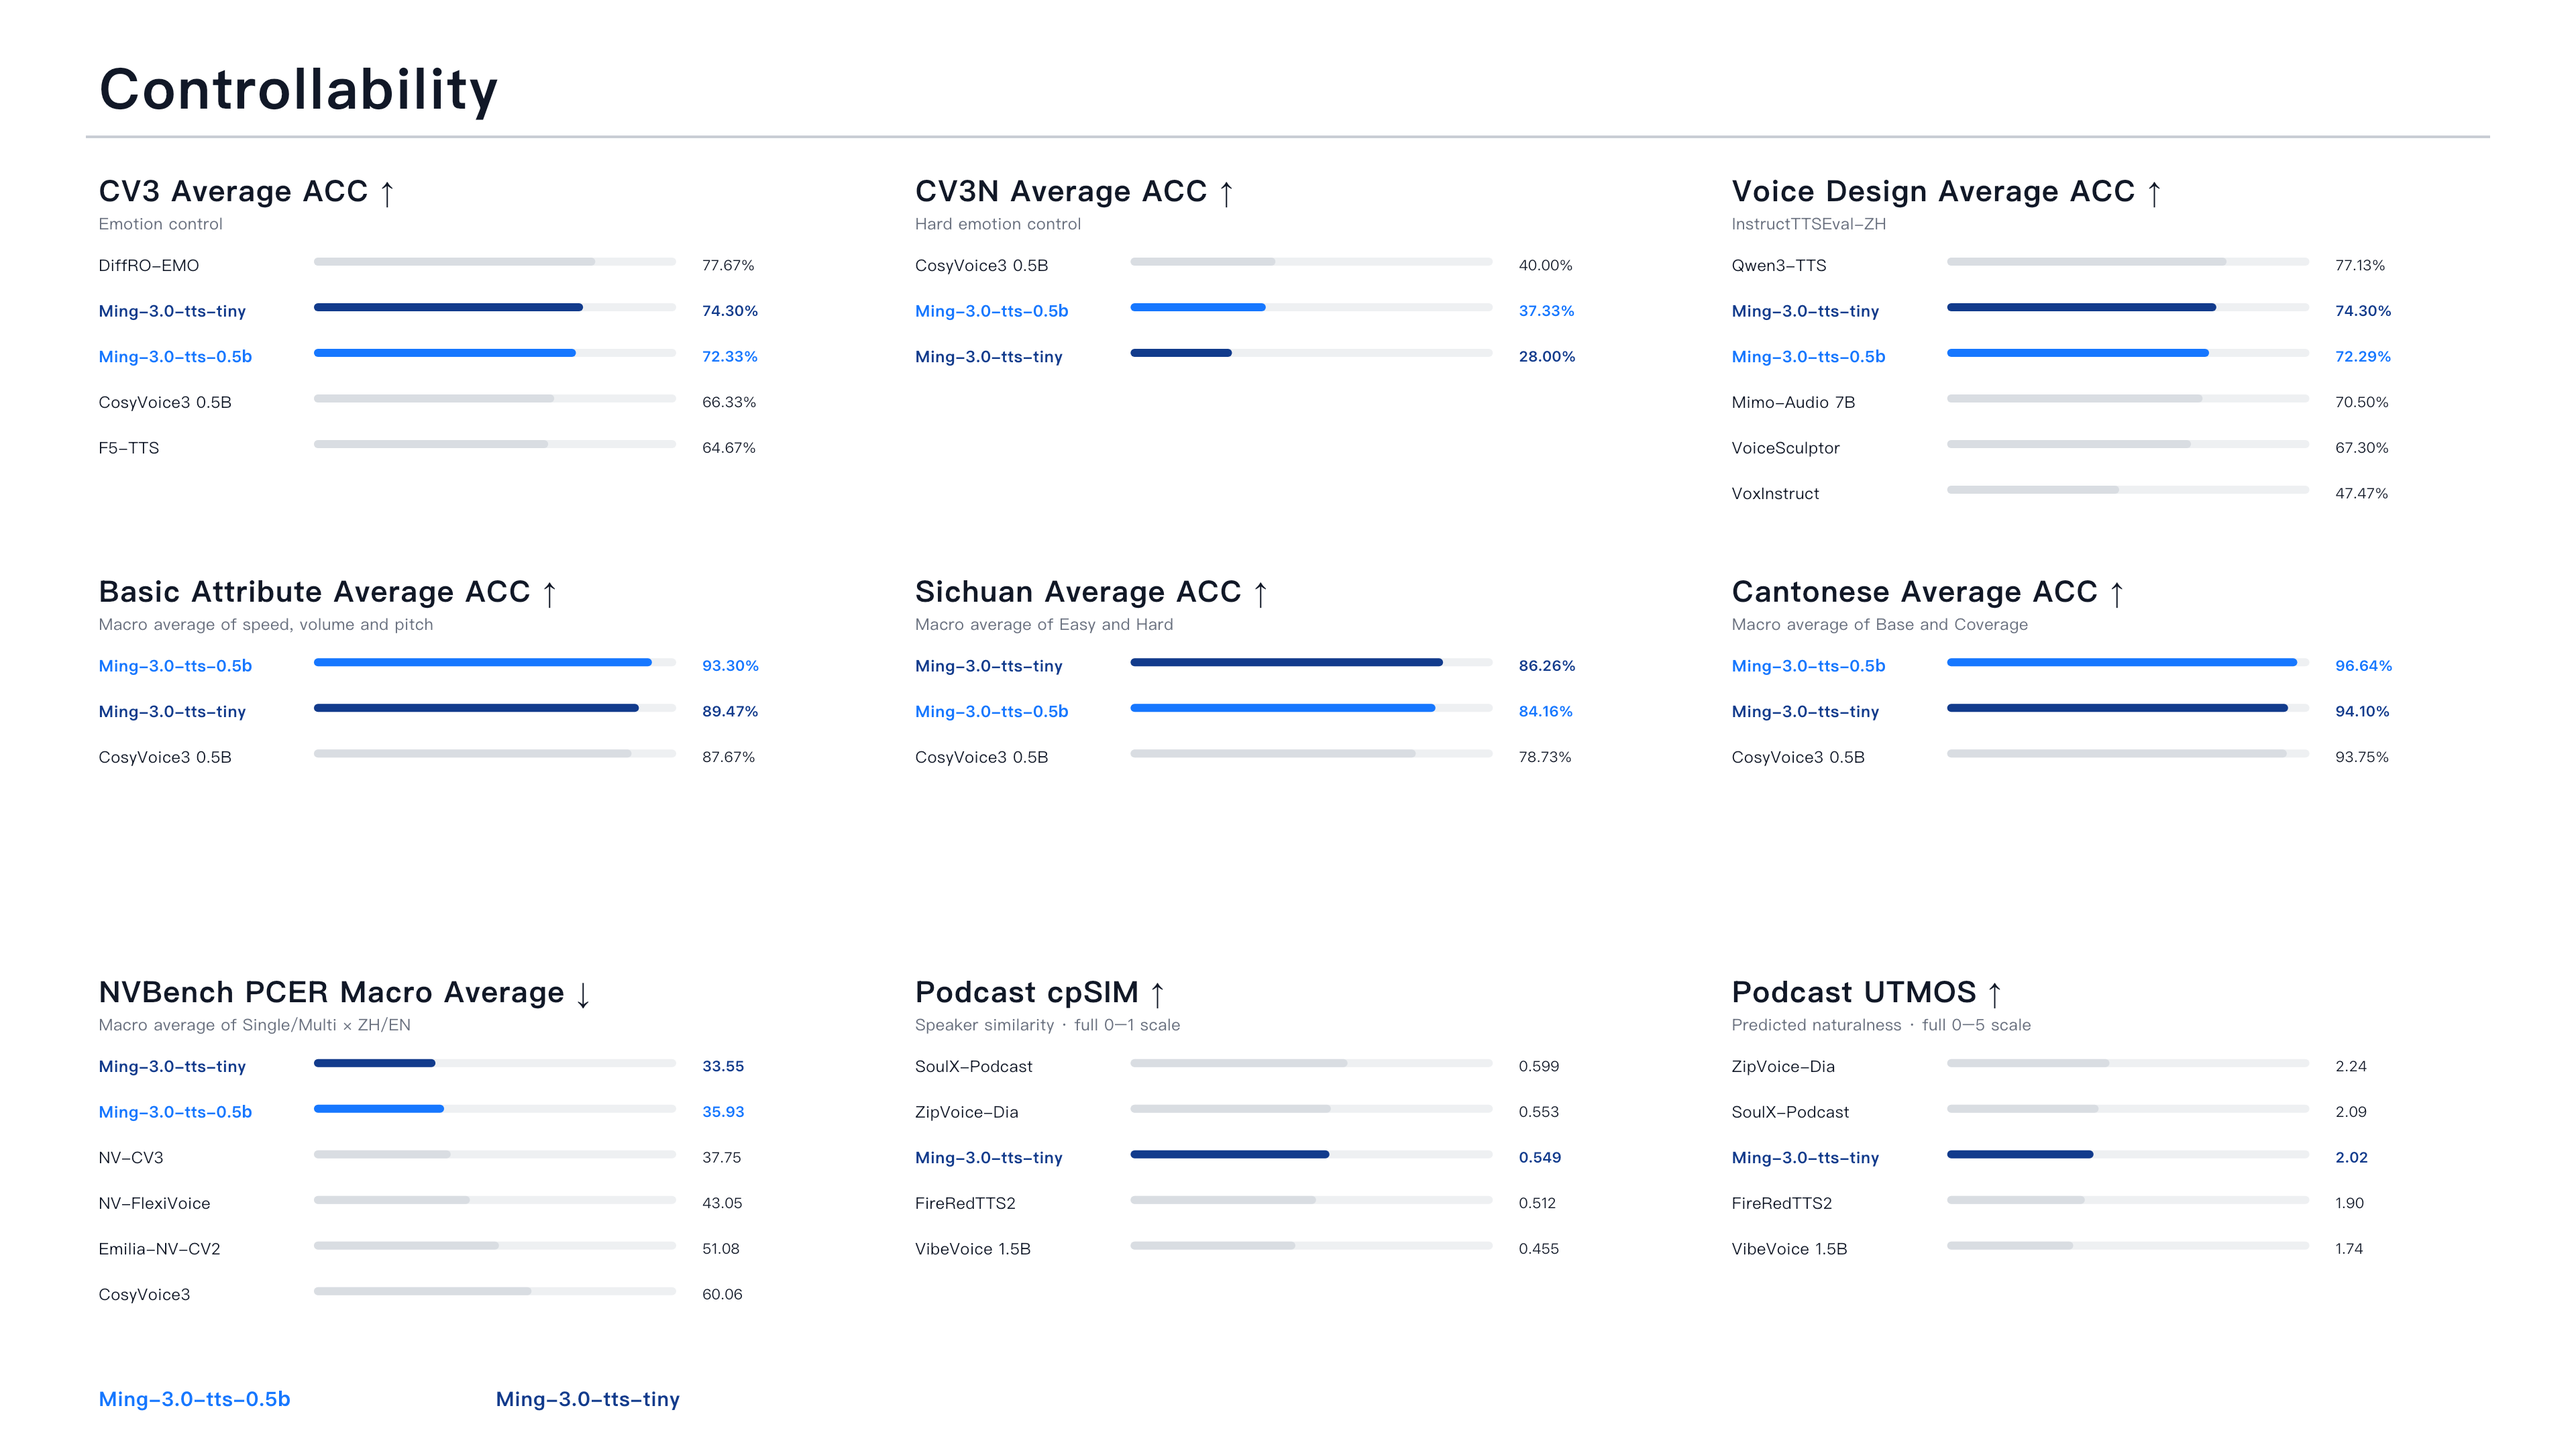
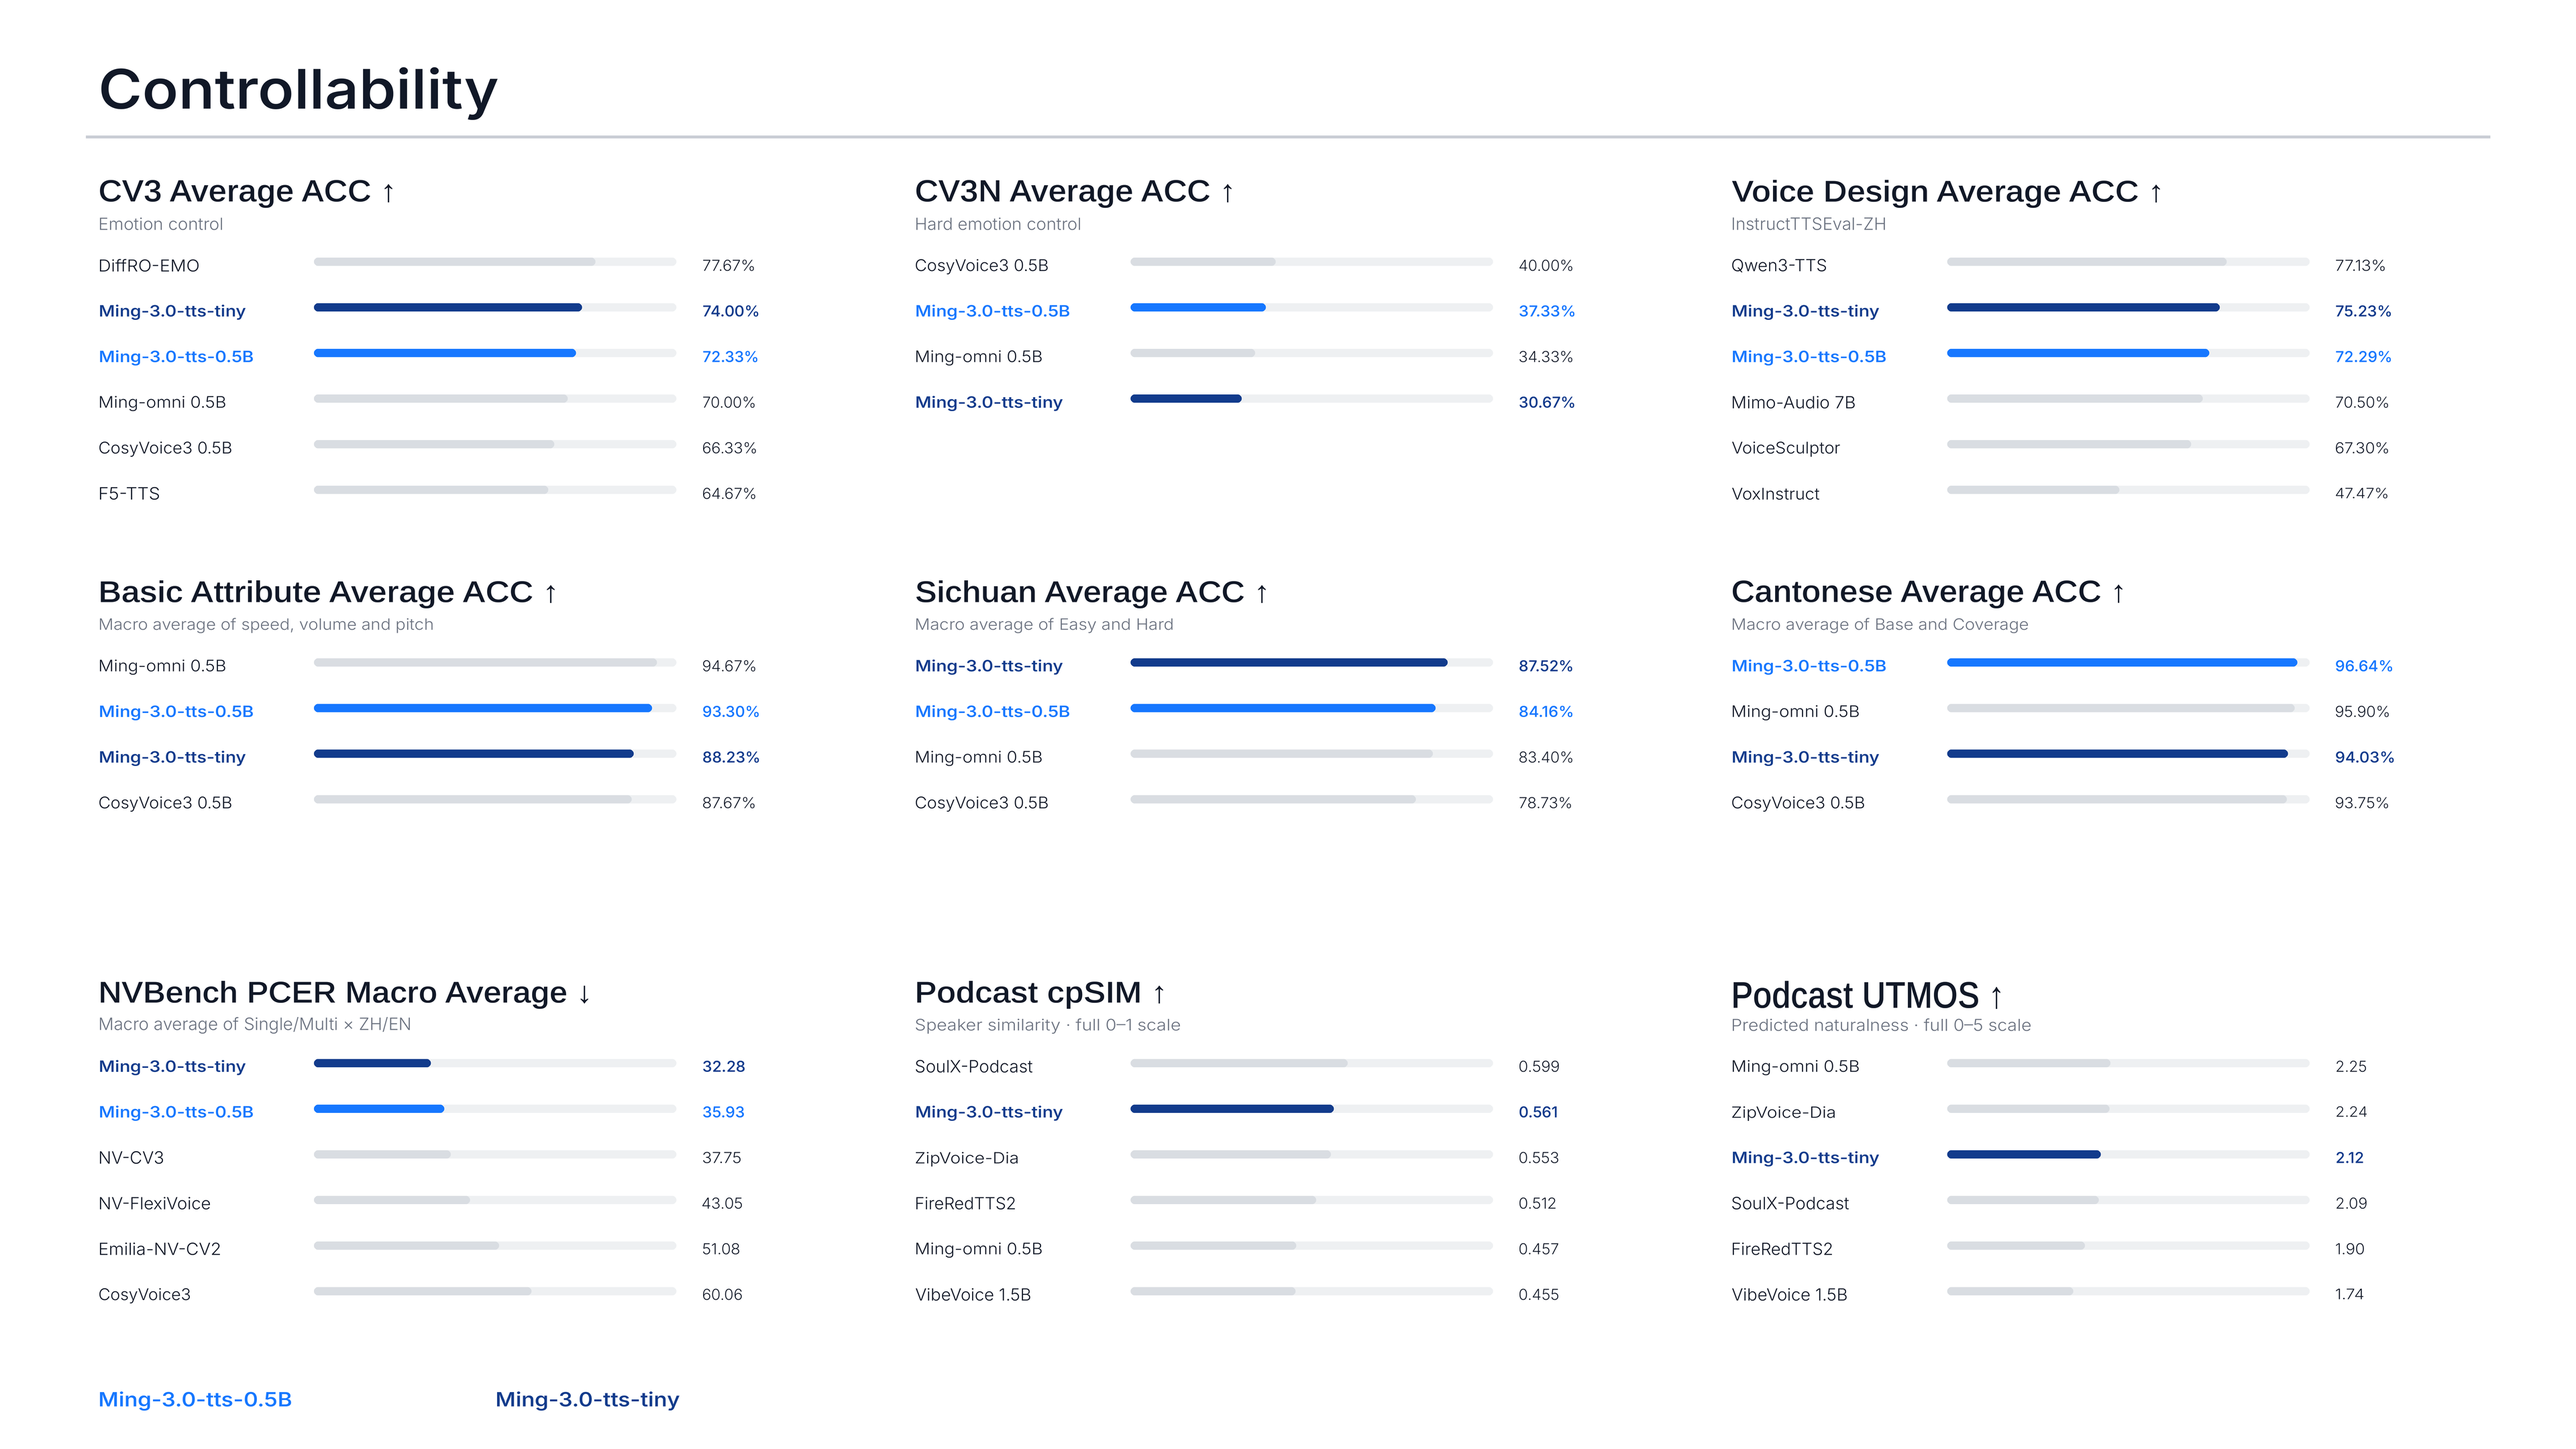
Replace demo video with tts9 and refresh benchmark charts.

diff --git a/index.html b/index.html
@@ -59,7 +59,7 @@
 <section class="section" id="video">
   <div class="container is-max-desktop">
     <h2 class="title is-3">Demo Video</h2>
-    <figure class="demo-video"><video controls preload="none" playsinline poster="static/images/posters/tts4.jpg" src="static/videos/tts4.mp4"></video></figure>
+    <figure class="demo-video"><video controls preload="none" playsinline poster="static/images/posters/tts9.jpg" src="static/videos/tts9.mp4"></video></figure>
   </div>
 </section>
 
